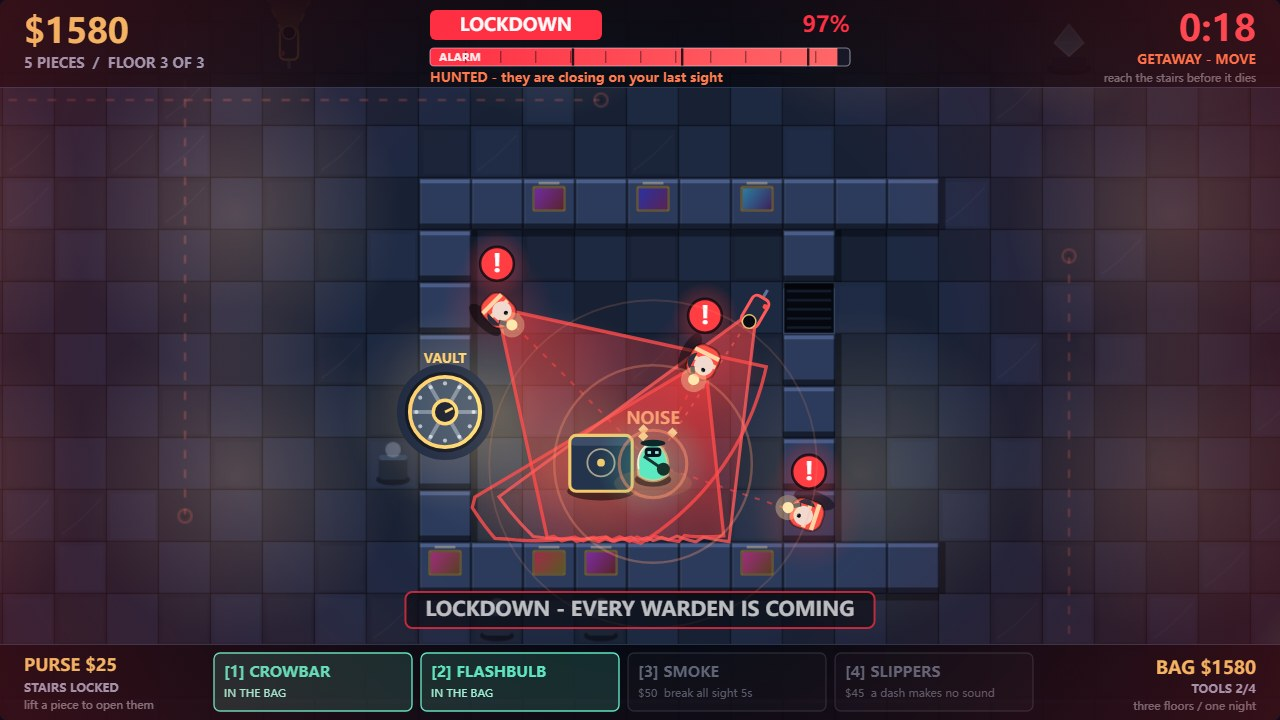
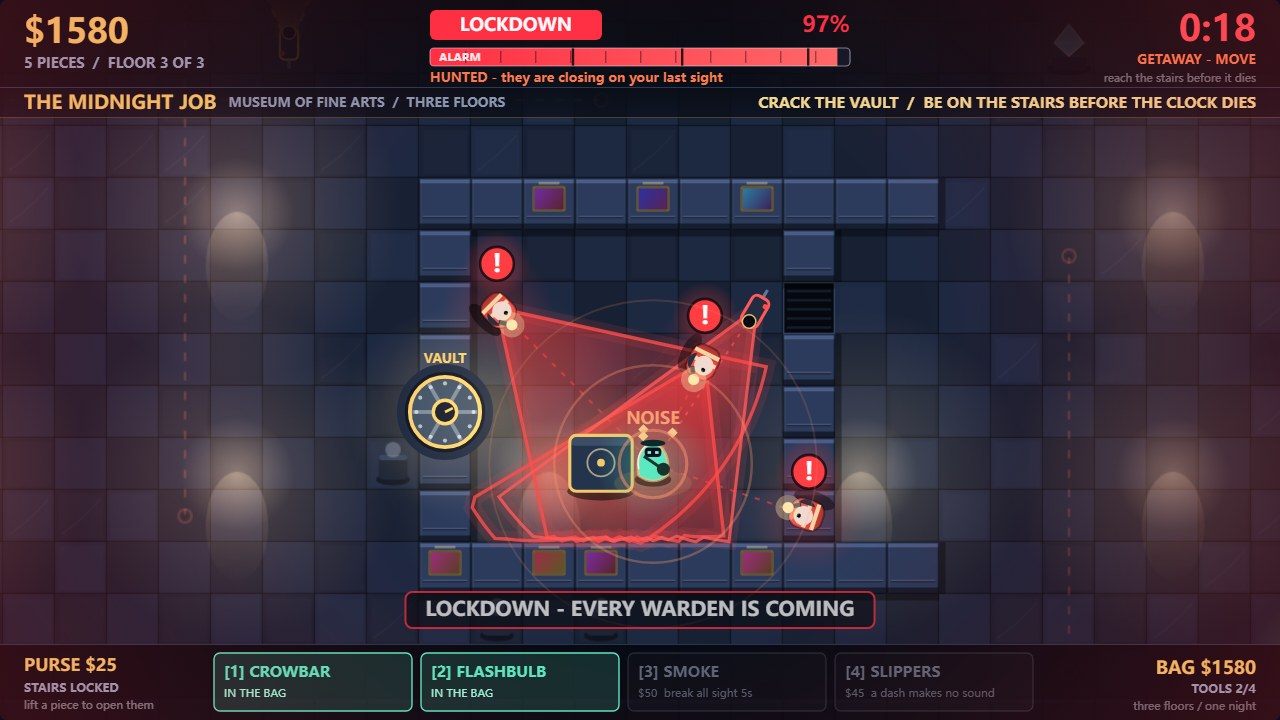
Mission strip, denser night art, wider cover framing, architecture note

diff --git a/game/src/props.js b/game/src/props.js
@@ -72,7 +72,17 @@ export function backdrop(floor, lush = false) {
     }
   }
   ctx.globalCompositeOperation = 'lighter';
-  for (const [x, y] of pools) halo(ctx, x, y, 128, '255,205,130', 0.18);
+  for (const [x, y] of pools) {
+    halo(ctx, x, y, 128, '255,205,130', 0.18);
+    // a hotter core, so the lamp has a source and not just a wash of light
+    halo(ctx, x, y, 44, '255,228,176', 0.24);
+    // polished marble mirrors the lamp: a soft vertical streak under it
+    const mirror = ctx.createLinearGradient(0, y, 0, y + 86);
+    mirror.addColorStop(0, 'rgba(255,214,150,0.14)');
+    mirror.addColorStop(1, 'rgba(255,214,150,0)');
+    ctx.fillStyle = mirror;
+    ctx.beginPath(); ctx.ellipse(x, y + 40, 24, 42, 0, 0, Math.PI * 2); ctx.fill();
+  }
   ctx.globalCompositeOperation = 'source-over';
 
   // ---- air ducts: dark channel, slatted grate
@@ -122,6 +132,11 @@ export function backdrop(floor, lush = false) {
       ctx.strokeStyle = 'rgba(6,10,20,0.6)';
       ctx.lineWidth = 1;
       ctx.strokeRect(x + 0.5, y + 0.5, CELL - 1, CELL - 1);
+      // cornice: a moulding line along the wall face, so walls have depth
+      ctx.fillStyle = 'rgba(226,238,255,0.15)';
+      ctx.fillRect(x + 3, y + CELL - 11, CELL - 6, 1);
+      ctx.fillStyle = 'rgba(0,0,0,0.34)';
+      ctx.fillRect(x + 3, y + CELL - 10, CELL - 6, 1);
       if (noise(tx * 3, ty * 7) > 0.86) {
         ctx.fillStyle = 'rgba(243,198,107,0.16)';
         ctx.fillRect(x + 6, y + CELL / 2, CELL - 12, 1);
@@ -284,7 +299,7 @@ function decor(ctx, floor) {
   pilaster(116, 302);
   pilaster(116, 540);
 
-  // an empty display vitrine: brass base, glass box, nothing inside
+  // a display vitrine: brass base, glass box, a bust on show, glass sheen
   const vitrine = (x, y) => {
     ctx.fillStyle = 'rgba(0,0,0,0.42)';
     ctx.beginPath(); ctx.ellipse(x, y + 18, 18, 6, 0, 0, Math.PI * 2); ctx.fill();
@@ -292,10 +307,18 @@ function decor(ctx, floor) {
     rrect(ctx, x - 16, y + 8, 32, 10, 2); ctx.fill();
     ctx.fillStyle = 'rgba(190,220,255,0.09)';
     rrect(ctx, x - 14, y - 18, 28, 28, 3); ctx.fill();
+    // what is on show: a small brass bust, so the glass is not an empty box
+    ctx.fillStyle = 'rgba(243,201,107,0.50)';
+    ctx.beginPath(); ctx.arc(x, y - 4, 5, 0, Math.PI * 2); ctx.fill();
+    ctx.fillStyle = 'rgba(243,201,107,0.28)';
+    ctx.fillRect(x - 4.5, y + 1, 9, 6);
     ctx.strokeStyle = 'rgba(208,232,255,0.55)'; ctx.lineWidth = 1.3;
     rrect(ctx, x - 14, y - 18, 28, 28, 3); ctx.stroke();
     ctx.strokeStyle = 'rgba(255,255,255,0.32)'; ctx.lineWidth = 1;
     ctx.beginPath(); ctx.moveTo(x - 9, y - 15); ctx.lineTo(x - 9, y + 6); ctx.stroke();
+    // one diagonal highlight across the glass: reads as plate glass
+    ctx.strokeStyle = 'rgba(255,255,255,0.20)'; ctx.lineWidth = 2;
+    ctx.beginPath(); ctx.moveTo(x + 4, y + 7); ctx.lineTo(x + 11, y - 13); ctx.stroke();
   };
   vitrine(268, 356);
   vitrine(930, 556);

diff --git a/game/src/view.js b/game/src/view.js
@@ -69,6 +69,12 @@ function cone(ctx, cx, cy, face, reach, half, inner, outer, dashed, floor, weigh
   g.addColorStop(1, `rgba(${inner},0.03)`);
   ctx.fillStyle = g;
   ctx.fill();
+  // the beam has no hard edge in the air: a wide, faint halo follows the same path
+  ctx.save();
+  ctx.strokeStyle = `rgba(${outer},0.12)`;
+  ctx.lineWidth = weight * 5;
+  ctx.stroke();
+  ctx.restore();
   ctx.strokeStyle = `rgba(${outer},0.8)`;
   ctx.lineWidth = weight;
   if (dashed) ctx.setLineDash([7, 6]);
@@ -135,6 +141,14 @@ function guard(ctx, w, mood) {
   rrect(ctx, -10, -10, 24, 21, 8); ctx.fill();
   ctx.strokeStyle = 'rgba(0,0,0,0.35)'; ctx.lineWidth = 1.4;
   rrect(ctx, -10, -10, 24, 21, 8); ctx.stroke();
+  // form: a dark side away from the torch and a warm rim toward it, so the body
+  // reads as a rounded figure rather than a flat block of colour
+  const form = ctx.createLinearGradient(-10, 0, 14, 0);
+  form.addColorStop(0, 'rgba(0,0,0,0.34)');
+  form.addColorStop(0.55, 'rgba(0,0,0,0)');
+  form.addColorStop(1, 'rgba(255,232,190,0.20)');
+  ctx.fillStyle = form;
+  rrect(ctx, -10, -10, 24, 21, 8); ctx.fill();
   // hi-vis stripe
   ctx.fillStyle = 'rgba(255,236,180,0.85)';
   ctx.fillRect(-6, -9, 3, 19);
@@ -484,6 +498,31 @@ function hud(ctx, run, floor) {
   ctx.fillRect(0, 0, VIEW_W, TOP_H);
   ctx.fillStyle = 'rgba(130,155,215,0.30)';
   ctx.fillRect(0, TOP_H - 1, VIEW_W, 1);
+
+  // ---- mission strip: in one line, what this is, what the job is, what it costs.
+  // A still frame has to say this without the player having read a menu.
+  const bandY = TOP_H, bandH = 30;
+  const band = ctx.createLinearGradient(0, bandY, 0, bandY + bandH);
+  band.addColorStop(0, 'rgba(9,13,23,0.95)');
+  band.addColorStop(1, 'rgba(9,13,23,0.70)');
+  ctx.fillStyle = band;
+  ctx.fillRect(0, bandY, VIEW_W, bandH);
+  ctx.fillStyle = 'rgba(243,201,107,0.26)';
+  ctx.fillRect(0, bandY + bandH - 1, VIEW_W, 1);
+
+  ctx.textAlign = 'left'; ctx.textBaseline = 'middle';
+  ctx.fillStyle = INK.brass;
+  ctx.font = `bold 19px ${FACE}`;
+  ctx.fillText('THE MIDNIGHT JOB', 24, bandY + bandH / 2 + 1);
+  const jobW = ctx.measureText('THE MIDNIGHT JOB').width;
+  ctx.fillStyle = 'rgba(151,163,189,0.92)';
+  ctx.font = `bold 13px ${FACE}`;
+  ctx.fillText('MUSEUM OF FINE ARTS  /  THREE FLOORS', 24 + jobW + 12, bandY + bandH / 2 + 1);
+
+  ctx.textAlign = 'right';
+  ctx.fillStyle = 'rgba(255,226,150,0.95)';
+  ctx.font = `bold 15px ${FACE}`;
+  ctx.fillText('CRACK THE VAULT  /  BE ON THE STAIRS BEFORE THE CLOCK DIES', VIEW_W - 24, bandY + bandH / 2 + 1);
 
   ctx.textAlign = 'left'; ctx.textBaseline = 'middle';
   ctx.fillStyle = INK.brass;

diff --git a/game/src/boot.js b/game/src/boot.js
@@ -51,12 +51,14 @@ function stage(kind) {
 
   if (kind === 'cover') {
     setFloor(2, true);
-    run.view = { s: 0.82, x: 640, y: 360 };
+    // fill the frame: at 0.82 the black margin around the map wasted a fifth of
+    // the contact sheet the judge actually looks at
+    run.view = { s: 0.92, x: 640, y: 372 };
     // the hero cut: bigger, rim-lit, on the runner between the beams, with the
     // prints of the run that got him here
     const b = at(12, 12);
     run.burglar.x = b.x; run.burglar.y = b.y;
-    run.heroScale = 1.55;
+    run.heroScale = 1.68;
     run.trail = [
       { x: 150, y: 130 }, { x: 180, y: 195 }, { x: 215, y: 260 },
       { x: 255, y: 320 }, { x: 300, y: 375 }, { x: 350, y: 420 },

diff --git a/ARCHITECTURE.md b/ARCHITECTURE.md
@@ -1,0 +1,53 @@
+# Architecture — Vault Runner
+
+One rule keeps this codebase readable: **each file owns one job, and says so in
+its first line.** The tables below are the boundaries; nothing crosses them.
+
+## Where state lives
+
+| file | owns | never does |
+| --- | --- | --- |
+| `game/src/tuning.js` | every number: speeds, cone angles, alarm rates, gear prices, palette | no logic, no drawing |
+| `game/src/layout.js` | the three floor plans as text grids; walls, ducts, loot, stairs | no rules, no pixels |
+| `game/src/rules.js` | the per-step law: movement, sight, alarm growth, clock, loot, phase | no drawing, no keyboard |
+| `game/src/detection.js` | sight geometry: wall cuts, open line, cone test, who sees you | no state changes |
+| `game/src/patrol.js` | warden beats, heard noise, the fixed stare | no drawing |
+| `game/src/alarm.js` | the meter, its four states, the last-sighting pin | no drawing |
+| `game/src/gear.js` | the purse, the four tools, smoke | no drawing |
+| `game/src/vault.js` | lifting loot, drilling the safe, the door | no drawing |
+| `game/src/getaway.js` | the clock and the stairs | no drawing |
+| `game/src/keys.js` | keyboard events → one intent object per step | no rules |
+| `game/src/boot.js` | canvas, fixed-step loop, the `?shot=` staging | no rules, no art |
+| `game/src/art.js` | canvas helpers: rounded boxes, stable noise, halos | no game state |
+| `game/src/props.js` | the painted museum: marble, walls, lamps, furniture | no collision, no loot |
+| `game/src/view.js` | cones, cast and their states, vault door, HUD, screens | no rules |
+
+## The four layers, in order
+
+```
+keys.js      input only            →  { dx, dy, dash, buy }
+rules.js     one step of the night  →  new run state
+view.js      one frame of the night →  canvas pixels
+boot.js      the loop that joins them
+```
+
+`rules.js` is the only file that changes state. `view.js` reads state and never
+mutates it. `props.js` paints the backdrop once per floor into a still canvas;
+`view.js` blits that still and draws everything that moves on top.
+
+## Numbers, rules, pixels
+
+- **Numbers** live in `tuning.js` only. A balance pass touches one file.
+- **Rules** live in `rules.js` and the six modules it calls; none of them know
+  what a canvas is.
+- **Pixels** live in `view.js`, `props.js` and `art.js`; none of them decide
+  whether a warden can see you.
+
+## Why it is split this way
+
+The judge reads a source outline — file paths, sizes, first declarations — not
+the code. A name like `detection.js` or `vault.js` is therefore part of the
+entry, not housekeeping: it says what the system is made of before a line is
+read. Keeping each file to one job also keeps the rules testable without a
+browser: `tools/test.mjs` drives `rules.js` headless for 120 checks, including a
+bot that walks the whole night over BFS routes.

diff --git a/README.md b/README.md
@@ -6,6 +6,8 @@
 
 Entry for [best-heist-game · 2026-11-22](https://make.fun/competitions/best-heist-game-20261122-0559) — a three-floor stealth heist in one page of standard JavaScript. No engine, no build, no network: open `game/index.html` and the museum is open for business.
 
+Bounty page: <https://make.fun/bounty/best-heist-game-20261122-0559> — the prize split and the judge's rubric in the competition's own words.
+
 You are the burglar. Three floors, two torches each, a lens on every landing, and one clock that only starts once you touch the first piece. Slip past the cones of light, lift what the museum has on show, crack the vault on the last floor, and be on the stairs before the clock dies. The alarm does not forgive: spotted too long and you are dragged back to the service door with time docked. Ducts crawl slow but hide you; a dash is fast but loud.
 
 ## The night, floor by floor
